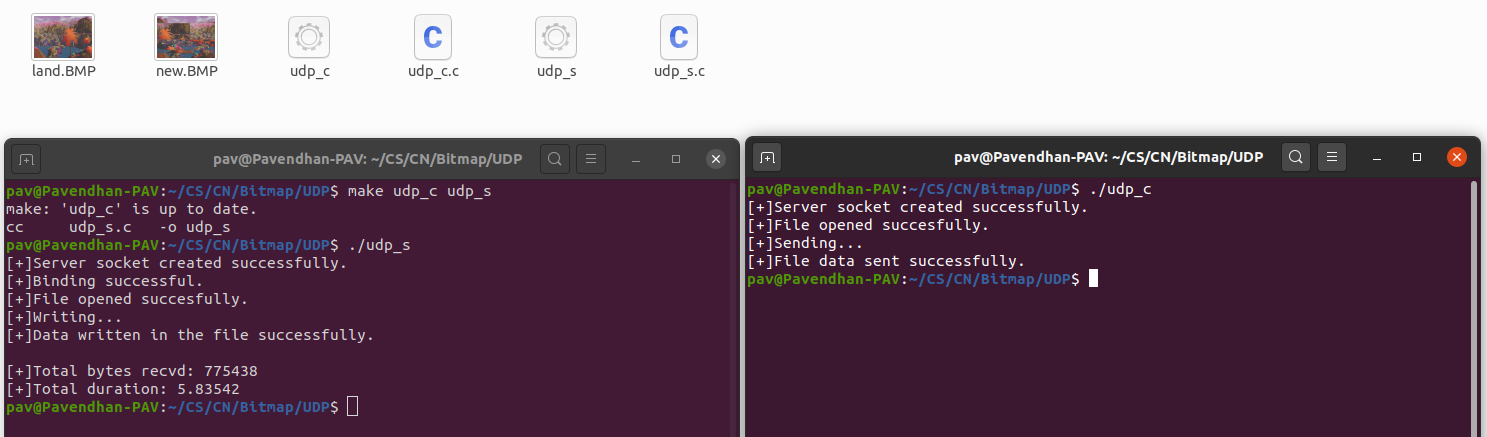
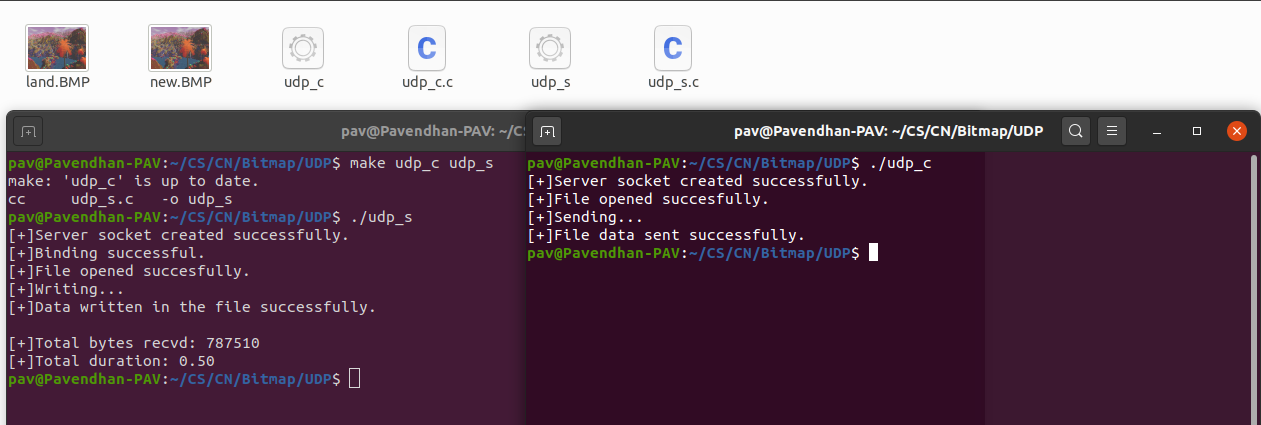
Add files via upload

diff --git a/Bitmap/UDP/udp_s.c b/Bitmap/UDP/udp_s.c
@@ -60,7 +60,7 @@ int main(){
   		else
   			printf("[+]File opened succesfully.\n[+]Writing...\n");
         bzero(buffer, SIZE);
-		
+		usleep(1000);
         n = recvfrom(sockfd, buffer, SIZE, 0, (struct sockaddr *)&new_addr, &l);
         
         while (n)
